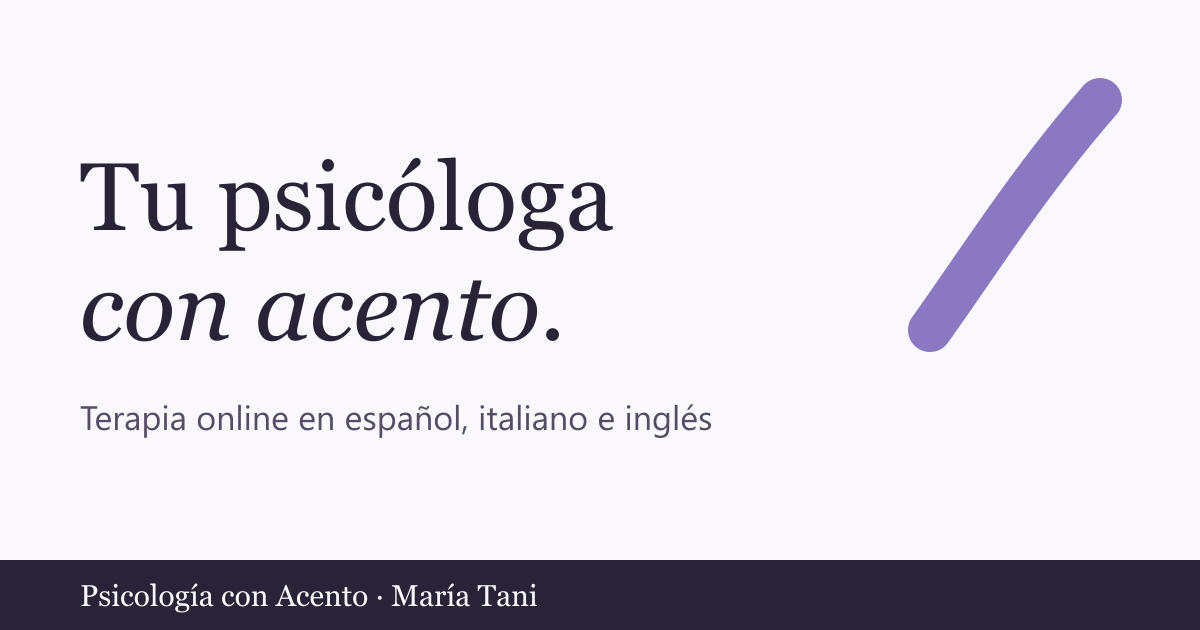
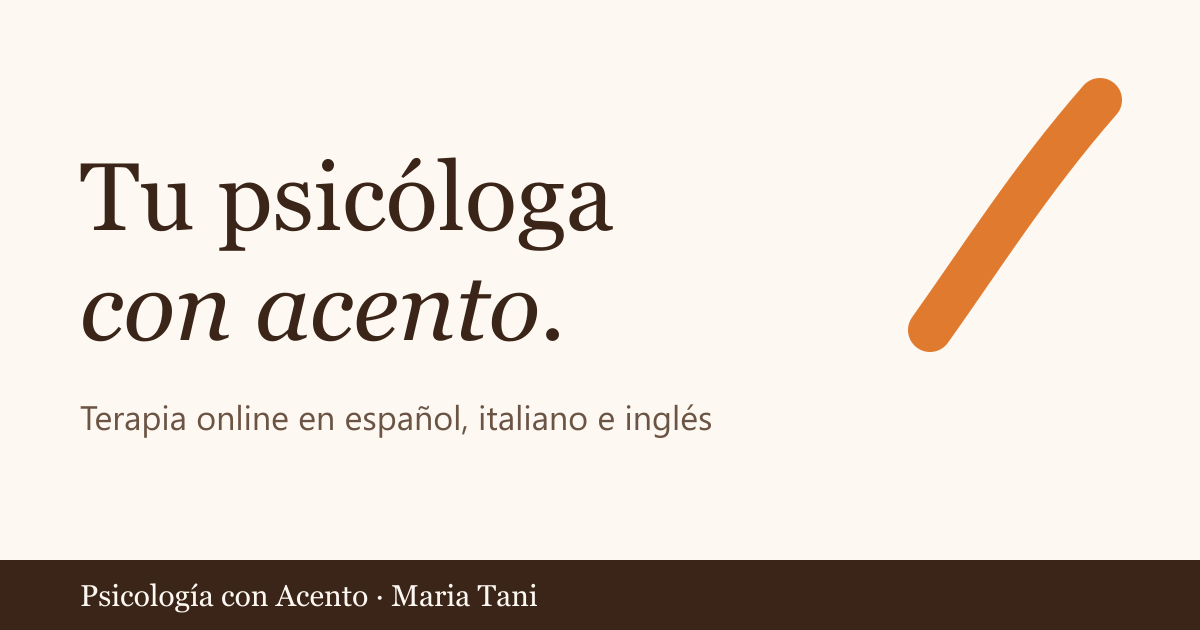
Recolor site to orange and brown palette

diff --git a/src/i18n/it.ts b/src/i18n/it.ts
@@ -7,12 +7,12 @@ const it: typeof es = {
   meta: {
     homeTitle: 'Psicologa online per italiani all’estero ed expat | Psicología con Acento',
     homeDescription:
-      'Terapia online in italiano, spagnolo e inglese per expat, migranti, famiglie e studenti internazionali. Prima chiamata gratuita di 30 minuti con la psicologa María Tani.',
+      'Terapia online in italiano, spagnolo e inglese per expat, migranti, famiglie e studenti internazionali. Prima chiamata gratuita di 30 minuti con la psicologa Maria Tani.',
     blogTitle: 'Blog su migrazione e salute mentale | Psicología con Acento',
     blogDescription:
-      'Articoli sul lutto migratorio, l’adattamento culturale e crescere figli tra culture diverse, a cura della psicologa María Tani.',
+      'Articoli sul lutto migratorio, l’adattamento culturale e crescere figli tra culture diverse, a cura della psicologa Maria Tani.',
     bookTitle: 'Prenota una seduta | Psicología con Acento',
-    bookDescription: 'Prenota la tua prima chiamata gratuita o una seduta di terapia online con María Tani.',
+    bookDescription: 'Prenota la tua prima chiamata gratuita o una seduta di terapia online con Maria Tani.',
     privacyTitle: 'Informativa sulla privacy | Psicología con Acento',
     legalTitle: 'Note legali | Psicología con Acento',
     notFoundTitle: 'Pagina non trovata | Psicología con Acento',
@@ -35,7 +35,7 @@ const it: typeof es = {
     cta: 'Prenota la prima chiamata gratuita',
     secondary: 'Vedi le tariffe',
     note: '30 minuti in videochiamata, senza impegno.',
-    portraitAlt: 'María Tani, psicologa, sorridente',
+    portraitAlt: 'Maria Tani, psicologa, sorridente',
     stamp: 'terapia online da qualsiasi paese',
   },
   who: {
@@ -52,7 +52,7 @@ const it: typeof es = {
       'Se ti riconosci, non stai sbagliando niente. Emigrare smuove molto più di quanto si veda da fuori, e merita uno spazio tutto suo.',
   },
   about: {
-    title: 'Sono María, e anch’io vivo con un accento',
+    title: 'Sono Maria, e anch’io vivo con un accento',
     paragraphs: [
       'Sono psicologa e anch’io migrante. Conosco il peso invisibile del ricominciare: il lutto che non ha nome, i cambiamenti di identità, la solitudine che sembra non avere senso perché «l’hai scelto tu».',
       'Lavoro con adulti, bambini, adolescenti e famiglie che vivono tra culture diverse. Il mio approccio è integrato: unisco strumenti di diversi orientamenti, basati sull’evidenza scientifica, e li adatto alla tua storia, perché la terapia deve parlare il tuo linguaggio emotivo, non solo la tua lingua madre.',

diff --git a/src/i18n/es.ts b/src/i18n/es.ts
@@ -5,12 +5,12 @@ export default {
   meta: {
     homeTitle: 'Psicóloga online para personas que viven en el extranjero | Psicología con Acento',
     homeDescription:
-      'Terapia online en español, italiano e inglés para expatriados, migrantes, familias y estudiantes internacionales. Primera llamada gratuita de 30 minutos con María Tani.',
+      'Terapia online en español, italiano e inglés para expatriados, migrantes, familias y estudiantes internacionales. Primera llamada gratuita de 30 minutos con Maria Tani.',
     blogTitle: 'Blog sobre migración y salud mental | Psicología con Acento',
     blogDescription:
-      'Artículos sobre duelo migratorio, adaptación cultural y crianza entre culturas, escritos por la psicóloga María Tani.',
+      'Artículos sobre duelo migratorio, adaptación cultural y crianza entre culturas, escritos por la psicóloga Maria Tani.',
     bookTitle: 'Reservar una sesión | Psicología con Acento',
-    bookDescription: 'Reserva tu primera llamada gratuita o una sesión de terapia online con María Tani.',
+    bookDescription: 'Reserva tu primera llamada gratuita o una sesión de terapia online con Maria Tani.',
     privacyTitle: 'Política de privacidad | Psicología con Acento',
     legalTitle: 'Aviso legal | Psicología con Acento',
     notFoundTitle: 'Página no encontrada | Psicología con Acento',
@@ -33,7 +33,7 @@ export default {
     cta: 'Pide tu primera llamada gratuita',
     secondary: 'Ver tarifas',
     note: '30 minutos por videollamada, sin compromiso.',
-    portraitAlt: 'María Tani, psicóloga, sonriendo',
+    portraitAlt: 'Maria Tani, psicóloga, sonriendo',
     stamp: 'terapia online desde cualquier país',
   },
   who: {
@@ -50,7 +50,7 @@ export default {
       'Si te reconoces, no estás haciendo nada mal. Migrar mueve mucho más de lo que se ve desde fuera, y merece un espacio propio.',
   },
   about: {
-    title: 'Soy María, y yo también vivo con acento',
+    title: 'Soy Maria, y yo también vivo con acento',
     paragraphs: [
       'Soy psicóloga y migrante. Conozco el peso invisible de empezar de nuevo: el duelo que no tiene nombre, los cambios de identidad, la soledad que parece no tener sentido porque «tú lo elegiste».',
       'Trabajo con adultos, niños, adolescentes y familias que viven entre culturas. Mi enfoque es integrador: combino herramientas de distintas corrientes con evidencia científica y las adapto a tu historia, porque la terapia tiene que hablar tu idioma emocional, no solo tu lengua materna.',

diff --git a/src/i18n/en.ts b/src/i18n/en.ts
@@ -7,12 +7,12 @@ const en: typeof es = {
   meta: {
     homeTitle: 'Online therapist for expats and people living abroad | Psicología con Acento',
     homeDescription:
-      'Online therapy in English, Spanish and Italian for expats, migrants, families and international students. Free 30-minute first call with psychologist María Tani.',
+      'Online therapy in English, Spanish and Italian for expats, migrants, families and international students. Free 30-minute first call with psychologist Maria Tani.',
     blogTitle: 'Blog on migration and mental health | Psicología con Acento',
     blogDescription:
-      'Articles on migratory grief, cultural adjustment and raising children between cultures, by psychologist María Tani.',
+      'Articles on migratory grief, cultural adjustment and raising children between cultures, by psychologist Maria Tani.',
     bookTitle: 'Book a session | Psicología con Acento',
-    bookDescription: 'Book your free first call or an online therapy session with María Tani.',
+    bookDescription: 'Book your free first call or an online therapy session with Maria Tani.',
     privacyTitle: 'Privacy policy | Psicología con Acento',
     legalTitle: 'Legal notice | Psicología con Acento',
     notFoundTitle: 'Page not found | Psicología con Acento',
@@ -35,7 +35,7 @@ const en: typeof es = {
     cta: 'Book your free first call',
     secondary: 'See fees',
     note: '30 minutes by video call, no commitment.',
-    portraitAlt: 'María Tani, psychologist, smiling',
+    portraitAlt: 'Maria Tani, psychologist, smiling',
     stamp: 'online therapy from any country',
   },
   who: {
@@ -52,7 +52,7 @@ const en: typeof es = {
       'If you recognise yourself here, you’re not doing anything wrong. Moving countries stirs up far more than people see from the outside, and it deserves a space of its own.',
   },
   about: {
-    title: 'I’m María, and I live with an accent too',
+    title: 'I’m Maria, and I live with an accent too',
     paragraphs: [
       'I’m a psychologist and a migrant myself. I know the invisible weight of starting over: the grief with no name, the shifts in identity, the loneliness that seems not to make sense because “you chose this”.',
       'I work with adults, children, teenagers and families living between cultures. My approach is integrative: I combine evidence-based tools from different schools of therapy and adapt them to your story, because therapy should speak your emotional language, not just your mother tongue.',

diff --git a/src/styles/global.css b/src/styles/global.css
@@ -1,13 +1,13 @@
 /* ---------- Tokens ---------- */
 :root {
-  --paper: #faf8fc;
-  --wash: #eee9f7;
-  --ink: #2a2236;
-  --ink-soft: #564c66;
-  --lavender: #8b78c2;
-  --lavender-deep: #5b4691;
+  --paper: #fdf8f2;
+  --wash: #f6e9d9;
+  --ink: #3a2518;
+  --ink-soft: #6b5444;
+  --lavender: #e07a2f;
+  --lavender-deep: #9a4a14;
   --pollen: #e3a93b;
-  --rule: #ddd5ea;
+  --rule: #ead9c4;
   --whatsapp: #167a43;
 
   --serif: 'Newsreader Variable', 'Iowan Old Style', Georgia, serif;

diff --git a/src/config.ts b/src/config.ts
@@ -1,7 +1,7 @@
 // Datos de contacto y servicios externos. Todo lo marcado con TODO hay que completarlo antes de publicar.
 export const site = {
   name: 'Psicología con Acento',
-  person: 'María Tani',
+  person: 'Maria Tani',
   whatsapp: 'https://wa.me/message/3MRLXQE6YLBIJ1',
   instagram: 'https://www.instagram.com/psicologia.conacento/',
   instagramHandle: '@psicologia.conacento',

diff --git a/README.md b/README.md
@@ -1,6 +1,6 @@
 # Psicología con Acento — web
 
-Web de María Tani (terapia online en español, italiano e inglés). Hecha con [Astro](https://astro.build): genera HTML estático, casi sin JavaScript, y se publica gratis en GitHub Pages.
+Web de Maria Tani (terapia online en español, italiano e inglés). Hecha con [Astro](https://astro.build): genera HTML estático, casi sin JavaScript, y se publica gratis en GitHub Pages.
 
 ## Uso diario
 
